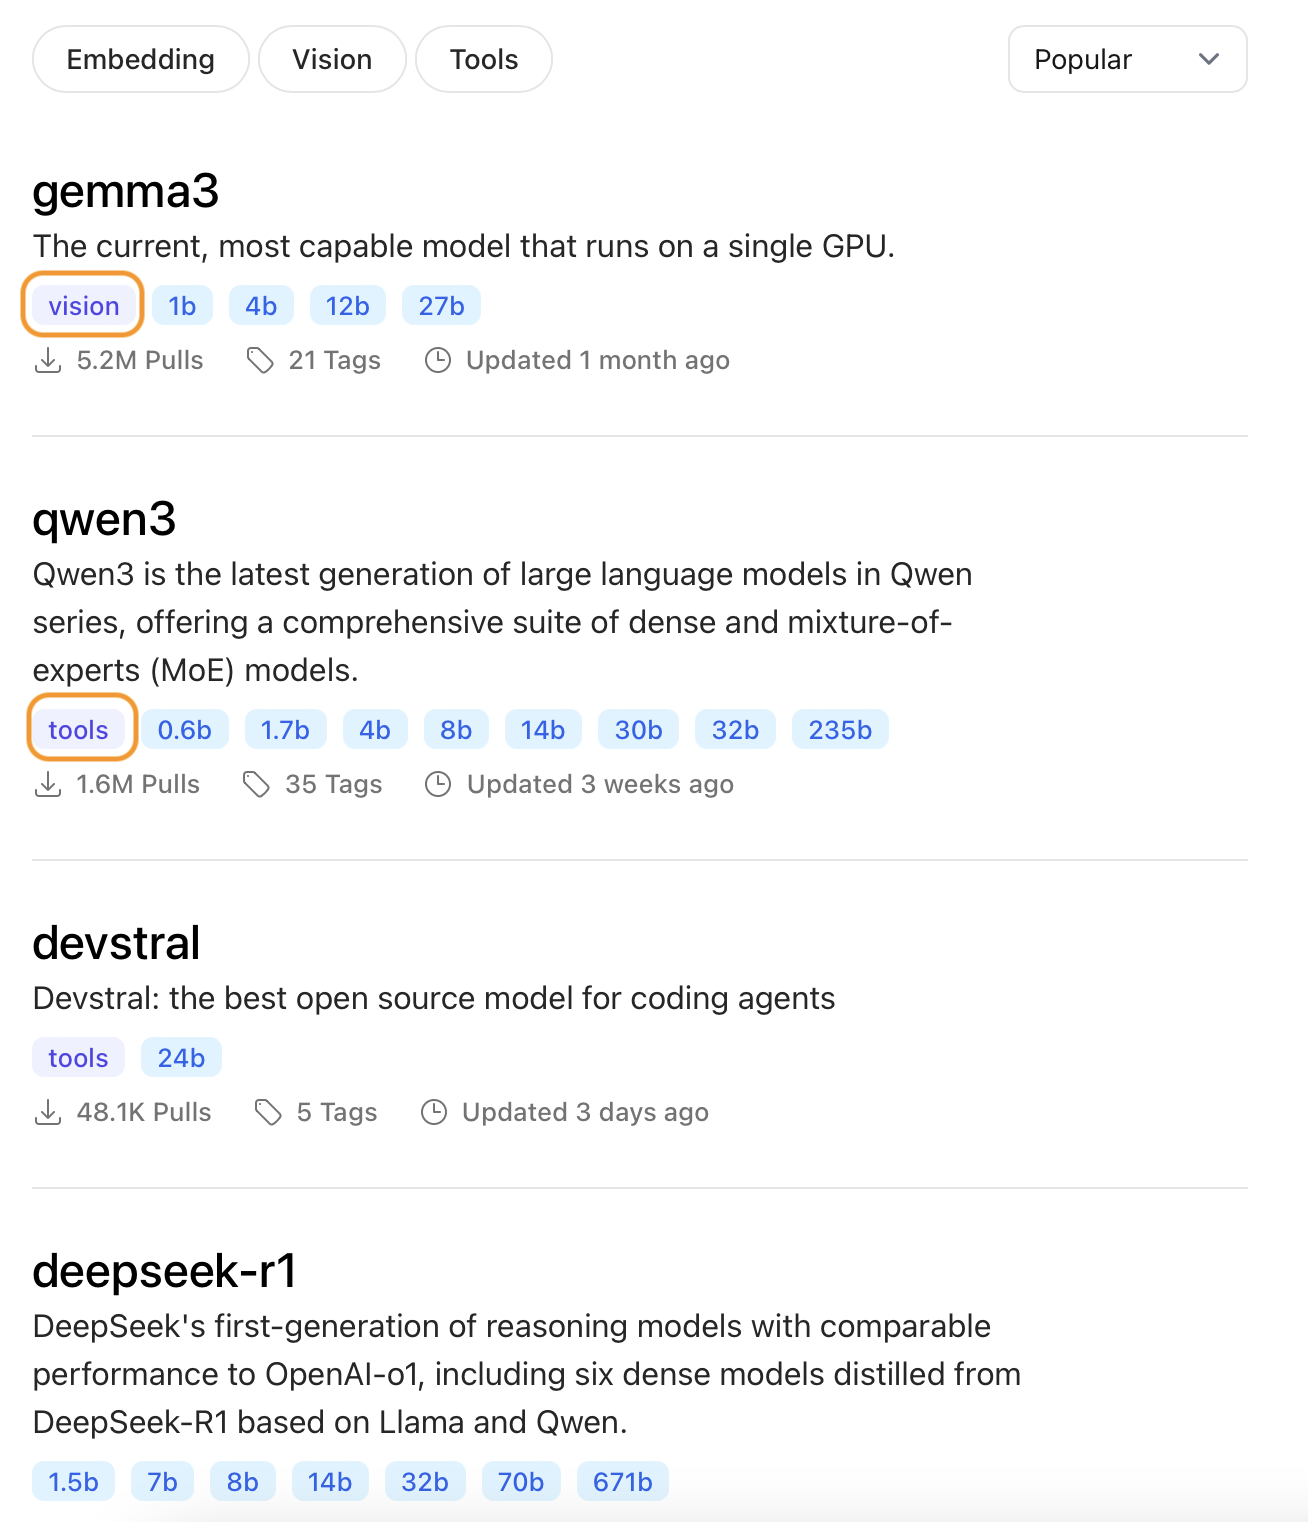
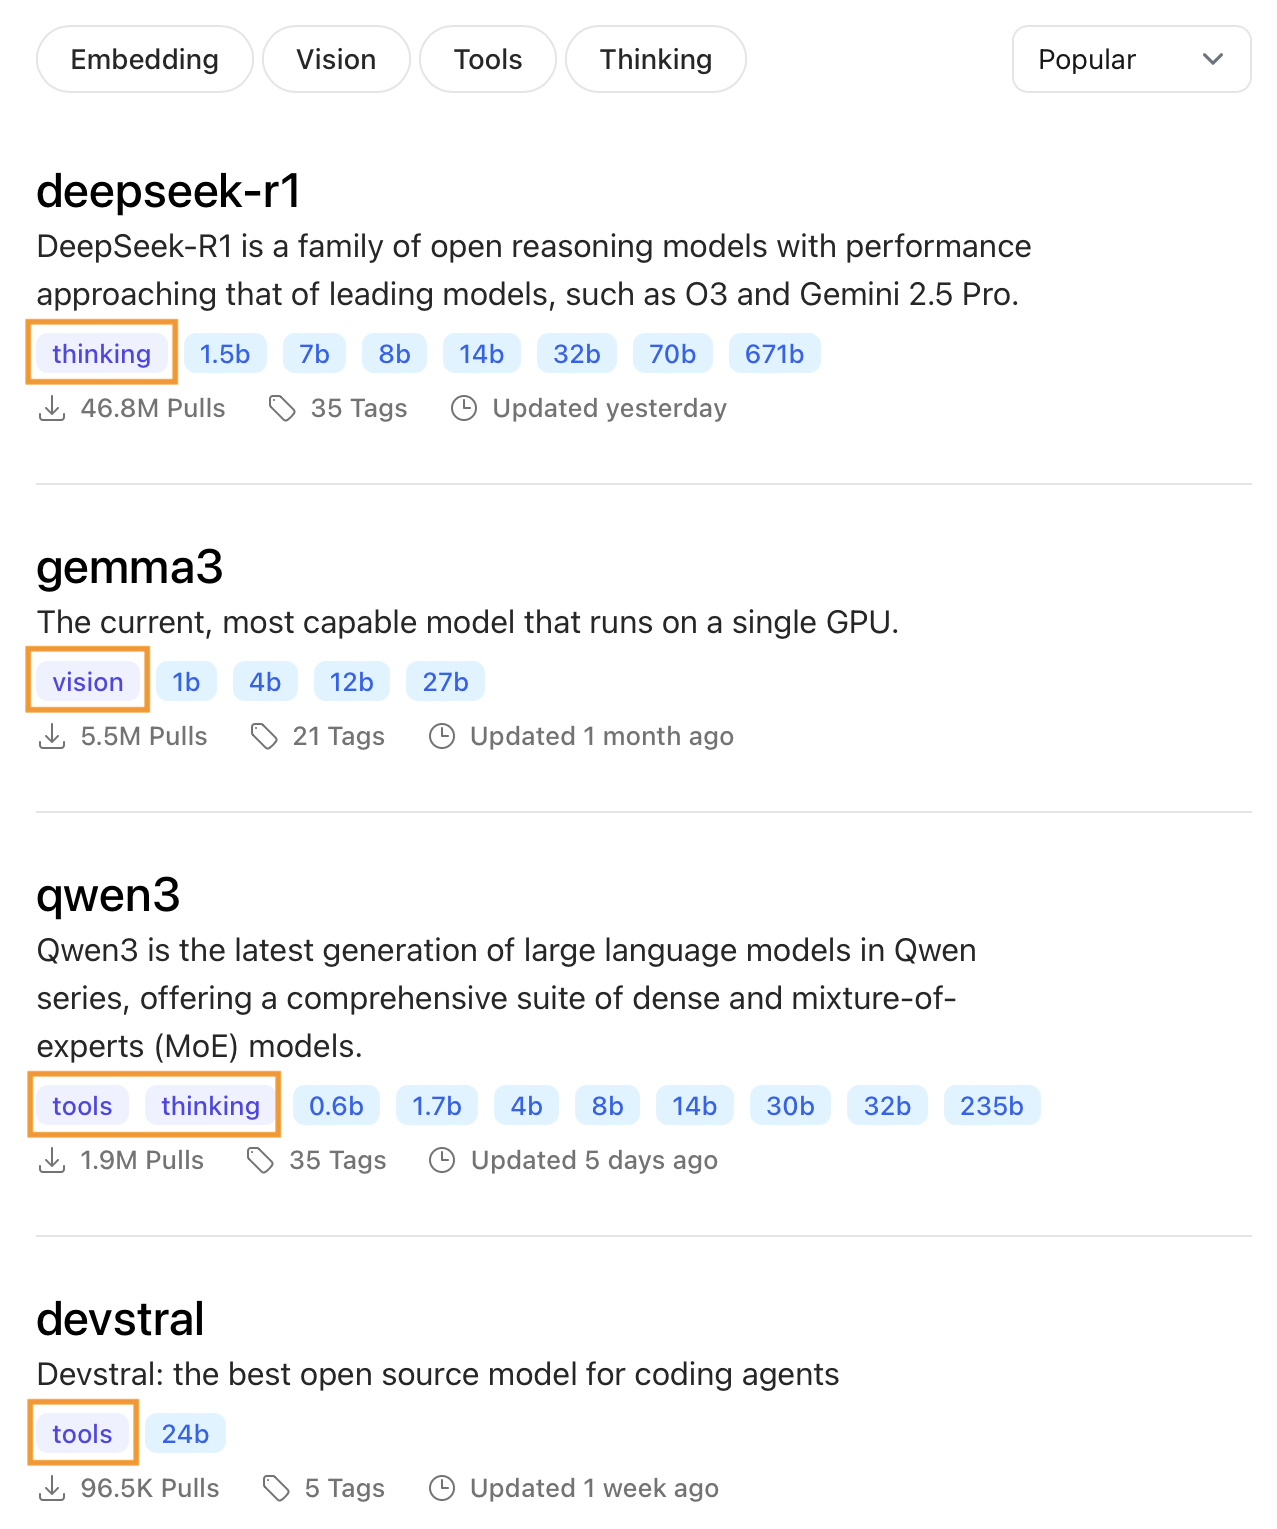
Modified the new thinking tag

diff --git a/pages/posts/ollama.md b/pages/posts/ollama.md
@@ -1,9 +1,9 @@
 ---
 title:  "Using ollama for AI Agents"
-date: 2025-05-25
+date: 2025-06-04
 tag: NLP
-tags: [ollama, agent, tool, vision]
-description: A simple instruction to Ollama focusing on the availabity of the tools and vision 
+tags: [ollama, agent, tool, vision, thinking]
+description: A simple instruction to Ollama focusing on the availabity of the tools, vision and thinking
 ---
 
 
@@ -38,7 +38,8 @@ In turn, using a **tool-capable** LLM models.
 
 ![](/images/ollama.png)
 
-While many of the models out there support tools.
 `Ollama` tags tool-capable models as `tools`, while one without that tag cannot be used to use tools in an AI Agents project.
 
-Also, among all the models, only `vision`-tagged models can handle such tasks.
+Additionally, for vision- or thinking-capable models, each is tagged as `vision` or `thinking`.
+
+For instance, `gemma3`, which is capable of visions is tagged as `vision` and `qwen3` is with `thinking`.
